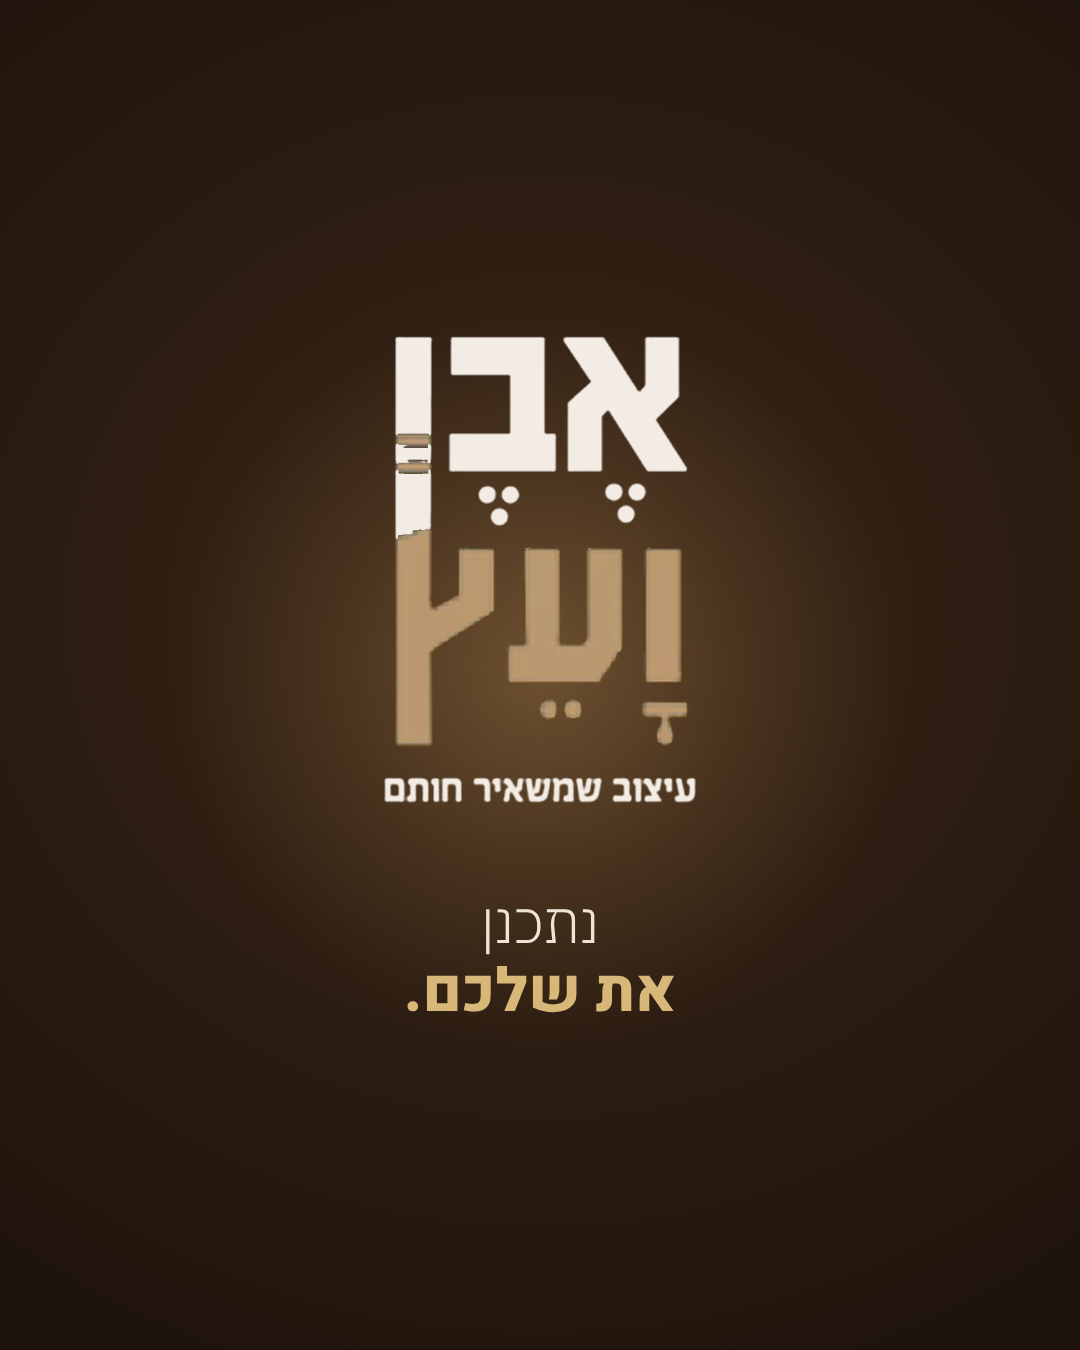
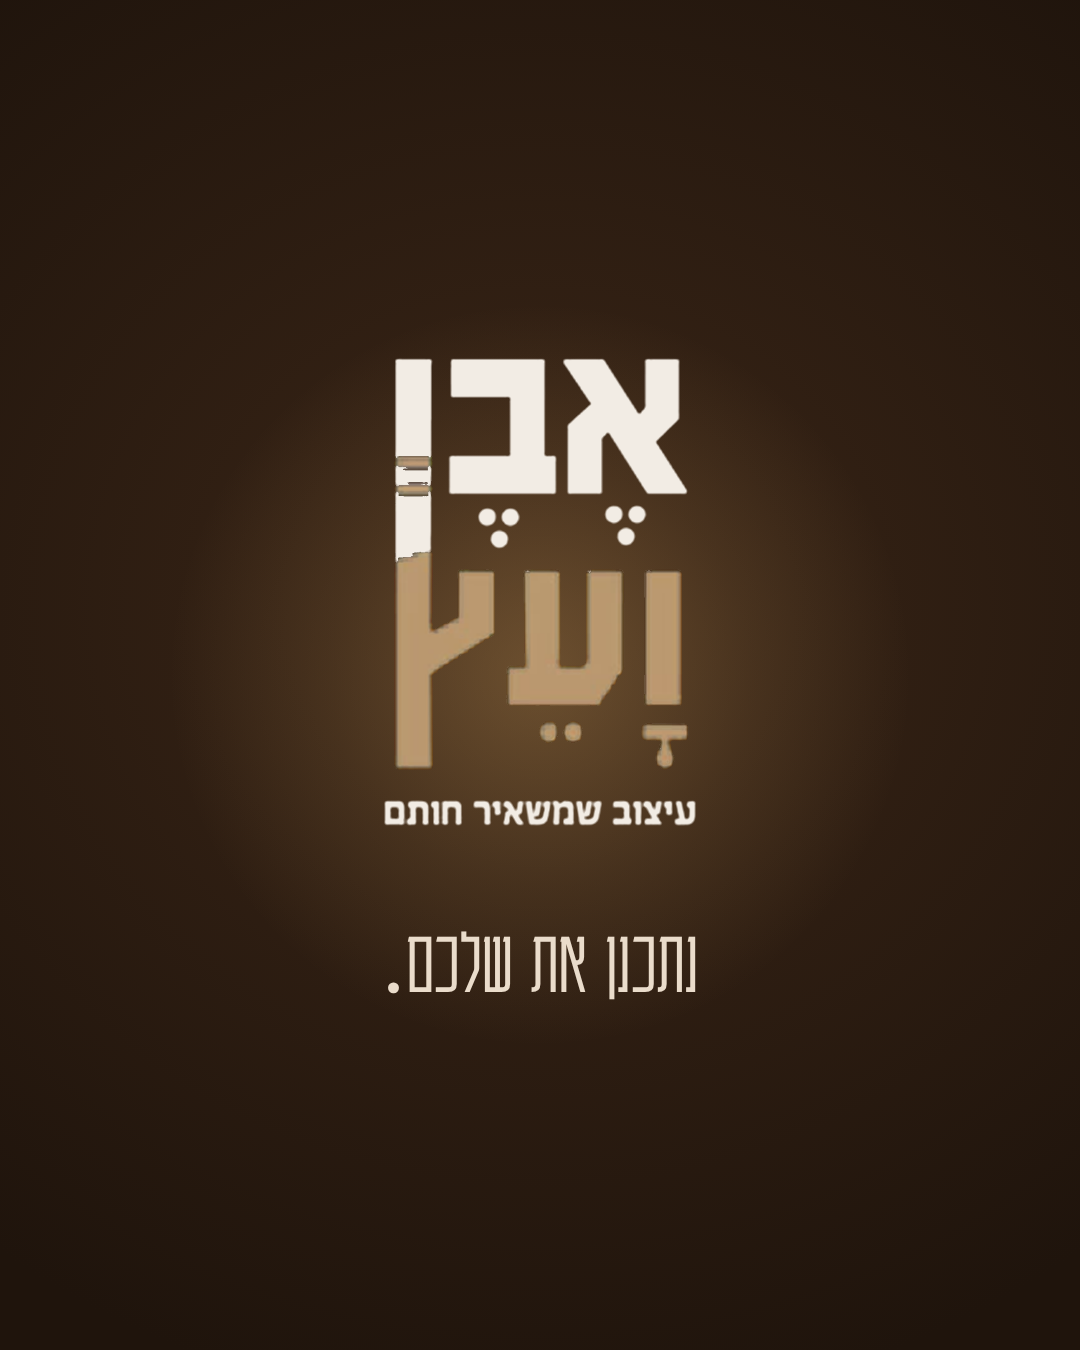
Glass niche closet: post v2 typography (Karantina Light), P3 lesson
Claude-Session: https://claude.ai/code/session_017YHNgbEKqJ6X58ZTsYCdPZ

Changed region(s): [[0.3361, 0.2489, 0.6417, 0.6222], [0.3667, 0.6533, 0.6417, 0.7467]]

diff --git a/projects/2026-10-glass-niche-closet/carousel/slides.html b/projects/2026-10-glass-niche-closet/carousel/slides.html
@@ -2,54 +2,50 @@
 <html lang="he">
 <head>
 <meta charset="UTF-8" />
-<!-- הפוסט הזה מראה ש: ארון שמתוכנן אישית יודע גם להסתיר וגם להראות, והתכנון מתחיל ממה שאתם רוצים לראות (ערך: תכנון אישי).
-     ארכיטיפ: כותרת מפוצלת על שני שקפים (P9) בשפה טיפוגרפית אחת: שורה דקה קלה (Plex Light) + שורה כבדה ענקית (Heebo 850),
-     דיו כהה על משטחים בהירים, ההדגשה בגוון האלון המואר. ללא שכבות. -->
+<!-- v2 (13.10, "לא נראה מספיק מקצועי... מצועצע וai"): שפה אדריכלית שקטה בהשראת סט 2.
+     כותרת: Karantina Light (צרה, דקה), פחם, גודל אחד בכל השקפים; שורת משנה: Heebo 300 קטנה עם ריווח אותיות.
+     בלי צבע מבטא, בלי קווים ובלי משקלים כבדים. כל כותרת מיושרת לקו אמיתי של העבודה. -->
 <style>
-@font-face{font-family:"Plex";src:url(plex-Light.ttf);font-weight:300}
-@font-face{font-family:"Plex";src:url(plex-Regular.ttf);font-weight:400}
+@font-face{font-family:"K";src:url(Karantina-300-hebrew.woff2);font-weight:300}
 @font-face{font-family:"Heebo";src:url(heebo.ttf);font-weight:100 900}
-:root{--ink:#2a1f17;--oak:#a8641f;--bronze:#A8763E}
+:root{--ink:#2b2520;--sub:#5b4f45}
 *{margin:0;padding:0;box-sizing:border-box}
 body{width:1080px}
 .slide{width:1080px;height:1350px;position:relative;overflow:hidden;background:#d9d0c6}
 .full{position:absolute;inset:0;width:1080px;height:1350px}
-.h{position:absolute;right:72px;direction:rtl;text-align:right;color:var(--ink)}
-.h .a{display:block;font:300 60px/1.15 "Plex";letter-spacing:.005em;color:#3a2e25}
-.h .b{display:block;font:850 156px/.98 "Heebo";letter-spacing:-.025em;margin-top:6px}
-.h .b em{font-style:normal;color:var(--oak)}
-.h .rule{display:block;width:84px;height:3px;background:var(--bronze);margin:0 0 20px auto}
+.h{position:absolute;direction:rtl;text-align:right;color:var(--ink);white-space:nowrap}
+.h .t{display:block;font:300 124px/.92 "K";letter-spacing:.005em}
+.h .s{display:block;font:300 36px/1.3 "Heebo";letter-spacing:.06em;color:var(--sub);margin-bottom:14px}
 .end{background:radial-gradient(110% 80% at 50% 45%,#3b2617 0%,#1f140c 75%);display:flex;flex-direction:column;align-items:center;justify-content:center}
 .end .glow{position:absolute;left:165px;top:300px;width:750px;height:750px;border-radius:50%;background:radial-gradient(circle,rgba(216,170,100,.32) 0%,rgba(216,170,100,.12) 40%,rgba(216,170,100,0) 70%)}
 .end .logo{position:relative;width:340px}
-.end .line{position:relative;direction:rtl;text-align:center;margin-top:70px;font:300 56px/1.2 "Plex";color:#efe4d6}
-.end .line em{font:800 60px/1.2 "Heebo";font-style:normal;color:#D8B878}
+.end .line{position:relative;direction:rtl;text-align:center;margin-top:72px;font:300 92px/1 "K";color:#eadccb;letter-spacing:.01em}
 </style>
 </head>
 <body>
 <section class="slide" id="s1">
   <img class="full" src="p1.png" alt="" />
-  <div class="h" style="top:30px;right:130px"><span class="a">רוב הארונות</span><span class="b">רק <em>מסתירים.</em></span></div>
+  <div class="h" style="top:96px;right:130px"><span class="t">רוב הארונות רק מסתירים.</span></div>
 </section>
 <section class="slide" id="s2">
   <img class="full" src="p2.png" alt="" />
-  <div class="h" style="top:56px;right:356px"><span class="a">זה</span><span class="b"><em>גם מציג.</em></span></div>
+  <div class="h" style="top:150px;left:369px;width:357px;text-align:center"><span class="t">זה גם מציג.</span></div>
 </section>
 <section class="slide" id="s3">
   <img class="full" src="p3.png" alt="" />
-  <div class="h" style="top:18px"><span class="a" style="font-size:38px">ומה שמוסתר,</span><span class="b" style="font-size:94px">מתוכנן באותה <em>הקפדה.</em></span></div>
+  <div class="h" style="top:26px;right:56px"><span class="s">ומה שמוסתר,</span><span class="t" style="font-size:104px">מתוכנן באותה הקפדה.</span></div>
 </section>
 <section class="slide" id="s4">
   <img class="full" src="p4.png" alt="" />
 </section>
 <section class="slide" id="s5">
   <img class="full" src="p5.png" alt="" />
-  <div class="h" style="bottom:70px"><span class="rule"></span><span class="a" style="font-size:46px">תכנון אישי מתחיל בשאלה אחת:</span><span class="b" style="font-size:116px;margin-top:8px">מה אתם רוצים<br /><em>לראות?</em></span></div>
+  <div class="h" id="q" style="bottom:96px;right:300px;font-size:0"><span class="s">תכנון אישי מתחיל בשאלה אחת:</span><span class="t" style="font-size:116px">מה אתם רוצים<br />לראות?</span></div>
 </section>
 <section class="slide end" id="s6">
   <div class="glow"></div>
   <img class="logo" src="logo_light.png" alt="אבן ועץ" />
-  <div class="line">נתכנן<br /><em>את שלכם.</em></div>
+  <div class="line">נתכנן את שלכם.</div>
 </section>
 </body>
 </html>

diff --git a/agents/post-designer.md b/agents/post-designer.md
@@ -34,6 +34,7 @@
 `grade.py` לכל צילום **רק אם גוון החומר באזור המוצר לא זז** (ΔE<2 מול המקור; אחרת המקור כמו שהוא, P15) · פלטה: זהב #D8B878, ברונזה #A8763E, כהה #1C1816 + גוני החומר מהצילום (רקע בגוון החומרים, לא לבן) · IBM Plex Sans Hebrew (Heebo אפשרי לרועש; לא Serif דרמטי כברירת מחדל) · שתי משפחות גופן לכל היותר · הלוגו המקורי (`logo_light.png` על כהה, `logo_alpha.png` על בהיר) בשקף הסיום, ובשער לפי הפורמט · קווים דקים בזהב/ברונזה · סקאלה: רועש = ענק, שקט = זעיר, אף פעם "הכול בינוני" · כותרת שער עד ~40 תווים.
 
 ## 6. כותרות (P3, P9)
+- **טיפוגרפיה (13.10):** מקצועית ומאופקת. ברירת מחדל: Karantina Light (`studio/assets/Karantina-300-hebrew.woff2`) לכותרת, פחם, גודל אחד; Heebo 300 קטן ומרווח לשורת משנה. אסור: דק+שחור באותה כותרת, מילה בצבע מבטא, קווי קישוט. "רועש" (סט 1) רק על צילום כהה, וגם אז בלי ערבוב משקלים.
 - **פאנץ' אחד לפוסט**, בדרך כלל בשער. שאר השקפים: שורה קצרה ועניינית, תווית שקטה, או בלי טקסט.
 - **שורה 1 = מה רואים בתמונה הזו, שורה 2 = תפנית עדינה.** 2–5 מילים לשורה, מבנה מקביל. מבחן: מכסים את התמונה; אפשר לנחש מה בה מהכותרת?
 - המבנים שאהבה (לא המשפטים): חוץ/פנים ("יפה מבחוץ. / מתוכנן מבפנים."), מציגים/מסתירים, פריט מרכזי/התכנון כולו, שלילה/חיוב ("לא לפי תבנית. / לפי הבית שלכם."), מצב/מצב ("כבוי, שקט ונקי. / דולק, חם ומואר." – הכי אהבה). **נושא + תובנה** (סט 2): "החלוקה הפנימית" + "לא לפי X, לפי Y" / "אל תשאירו...". כל תובנה נכונה למה שרואים ולידע מקצועי אמיתי.

diff --git a/knowledge/learning/client-voice.md b/knowledge/learning/client-voice.md
@@ -85,7 +85,7 @@
 **P3. כותרת קשורה לתמונה שעליה היא יושבת, עם פאנץ' עדין ועברית טבעית.**
 - פאנץ' אחד לפוסט. לא כל שקף צריך משפט. לא מתאמצים ולא מתחכמים. חרוז רק לפי הצליל, ואם אין חרוז אמיתי, מבנה מקביל.
 - הכי אהבה: "כבוי, שקט ונקי. / דולק, חם ומואר."
-- **הטיפוגרפיה עצמה היא חלק מהעיצוב:** הכותרת מעוצבת בצורה יפה ומרשימה (קנה מידה, משקל, צבע מתוך התמונה, יחס בין שורות, מיקום שמתכתב עם קווי העבודה), לא טקסט מונח על תמונה. עוגן: "כשאתה מעצב את הפוסט קרוסלה תעצב את הכיתוב בצורה יפה ומרשימה" (13.10).
+- **הטיפוגרפיה עצמה היא חלק מהעיצוב, ברמה של מעצב מקצועי:** הכותרת מעוצבת יפה ומרשים (מיקום שמתיישר לקווי העבודה, יחס בין שורות, אוויר), **אבל בשקט ובאיפוק.** מה שנראה "מצועצע ו-AI" ונפסל: ערבוב משקלים (דק + שחור עבה), מילה בצבע מבטא, קו קישוט, כותרת ענקית וכבדה. מה שעובד (כמו סט 2): גופן תצוגה אחד צר ודק (Karantina Light), בצבע פחם, באותו גודל ובאותו היגיון מיקום בכל השקפים, עם שורת משנה קטנה ומרווחת כשצריך. בשאלה, עדיף פחות. עוגן: "תעצב את הכיתוב בצורה יפה ומרשימה" (13.10); "לא נראה מספיק מקצועי ומרשים, נראה קצת מצועצע וai" (13.10, על כותרות Heebo 850 + כתום).
 - עוגן: "אני אוהבת שזה קשור לאותה תמונה עם פאנץ עדין" ו"מדויק ומבריק זה בכלל לא חרוז" (9.10).
 
 **P4. חיתוך הוא כלי להדגשה, ובכל פוסט יש גם את התמונות השלמות.**

diff --git a/knowledge/learning/content-log.md b/knowledge/learning/content-log.md
@@ -33,4 +33,4 @@
 | סדרת קירות טלוויזיה | 1 (בכרטיס ההצעה: כיתוב הרילס על החברה, "רפפות") | נמסר אחרי שער משולב: תיקון אחד (הכרטיס השני ישב על המזנון ובאזור הכפתורים ← עבר לתקרה של הקיר הכהה) |
 | מותג כללי | 1 (v1 נבנה בלי הצעה בכתב: branch ישן) | v2: מעט פרויקטים → 5, רגע אור → ספרייה, תיקון עיוות בדלתות האגוז |
 | נגרות לכל הבית | 1 (בכרטיס: בלי מנורה) + הערה על צבע בטיוטה (P15) | grade.py שינה גוון; מעכשיו בודקים ΔE מול המקור |
-| ארון סהרה ונישה | 3 בכרטיס (כיתובים: "תחשוב עמוק יותר", "פחות שקט ורעש") | C5 נוסף; שער: טיפוגרפיה בפוסט חוזקה, "חדר שינה" הוסר מהכיתוב (לא נמסר) |
+| ארון סהרה ונישה | 3 בכרטיס (כיתובים) + 1 אחרי מסירה (טיפוגרפיה "מצועצעת וai" → Karantina Light) | C5 נוסף; שער: טיפוגרפיה בפוסט חוזקה, "חדר שינה" הוסר מהכיתוב (לא נמסר) |

diff --git a/projects/2026-10-glass-niche-closet/PROJECT.md b/projects/2026-10-glass-niche-closet/PROJECT.md
@@ -54,3 +54,4 @@
 - כרטיס 3 (13.10): "פחות אהבתי את השקט ורעש" → רילס 1 "מהרצפה / עד התקרה.", 4 "ובפנים, / כל סנטימטר עובד." (מושאר: "רק אור / במקום הנכון.", "תוכנן / בשבילכם."). מוט תלייה שיורד: מאושר.
 - **אושר** (13.10, "מאשרת"): הפוסט מכרטיס 2 + שקף 3 החדש; הרילס מכרטיס 4. הערה: "תעצב את הכיתוב בצורה יפה ומרשימה".
 - שער סופי (13.10): רילס APPROVE; פוסט RETURN קל (טיפוגרפיה מרשימה ואחידה, יישור לקווי העבודה; "חדר שינה" הוסר מהכיתובים). תוקן ונמסר. שקף 5: הכותרת על חזיתות חלקות חוצה מרווחים בין דלתות, אין אזור רגוע אחר בצילום.
+- סבב 1 אצלה (13.10): "עיצוב הכיתובים בקרוסלה... מצועצע וai" → v2: Karantina Light בפחם, גודל אחד, בלי מבטא צבע וקווים; P3 עודכן.
